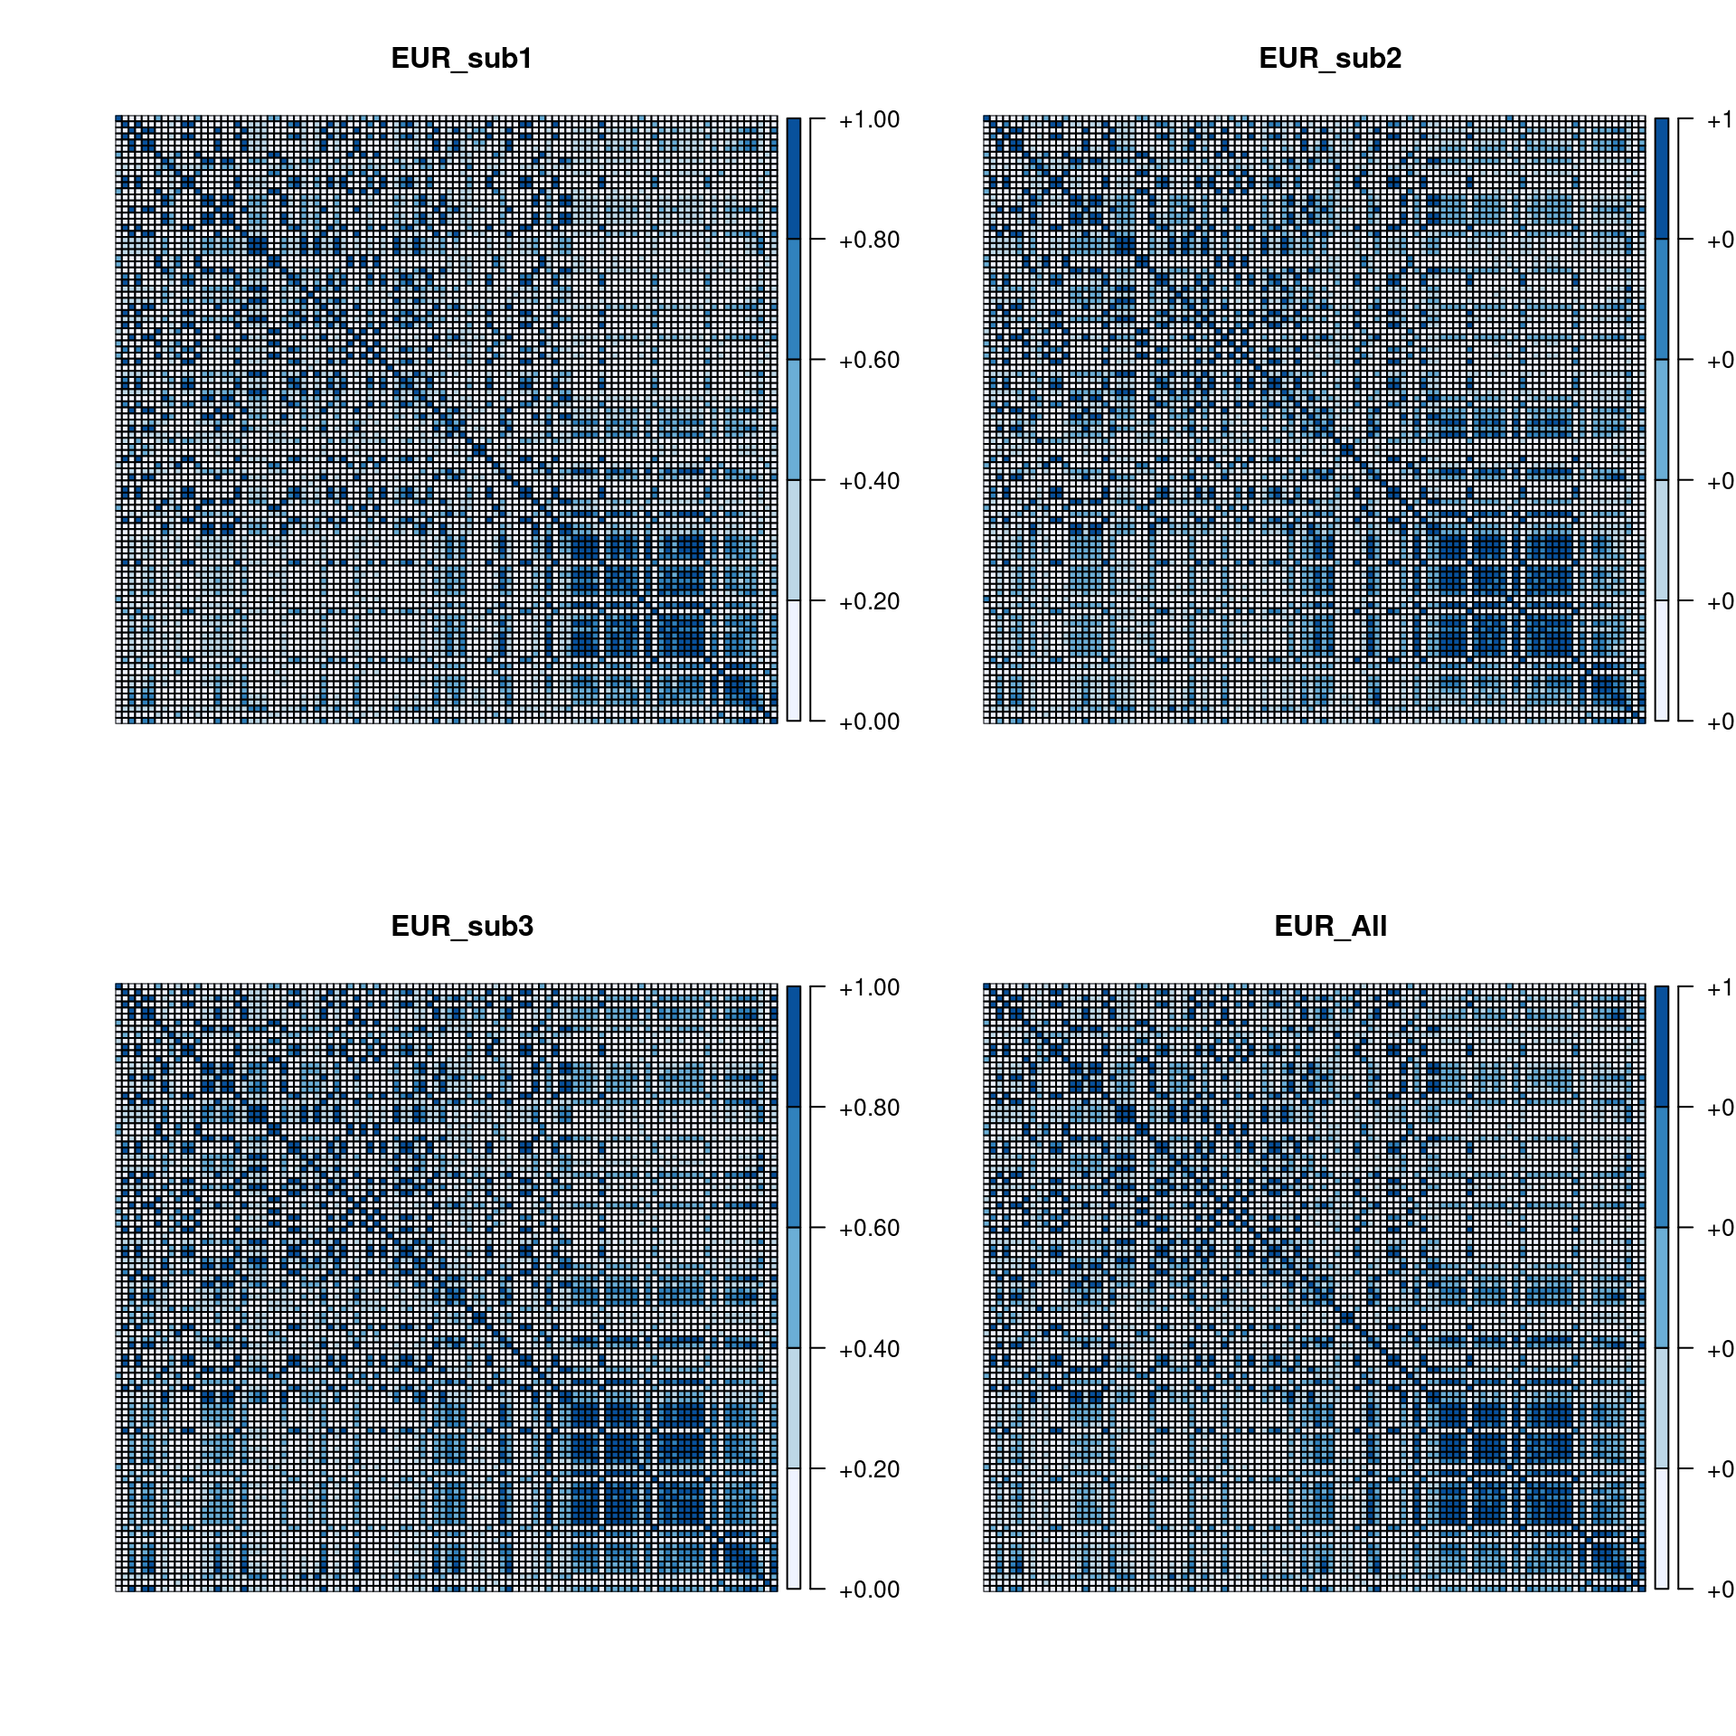
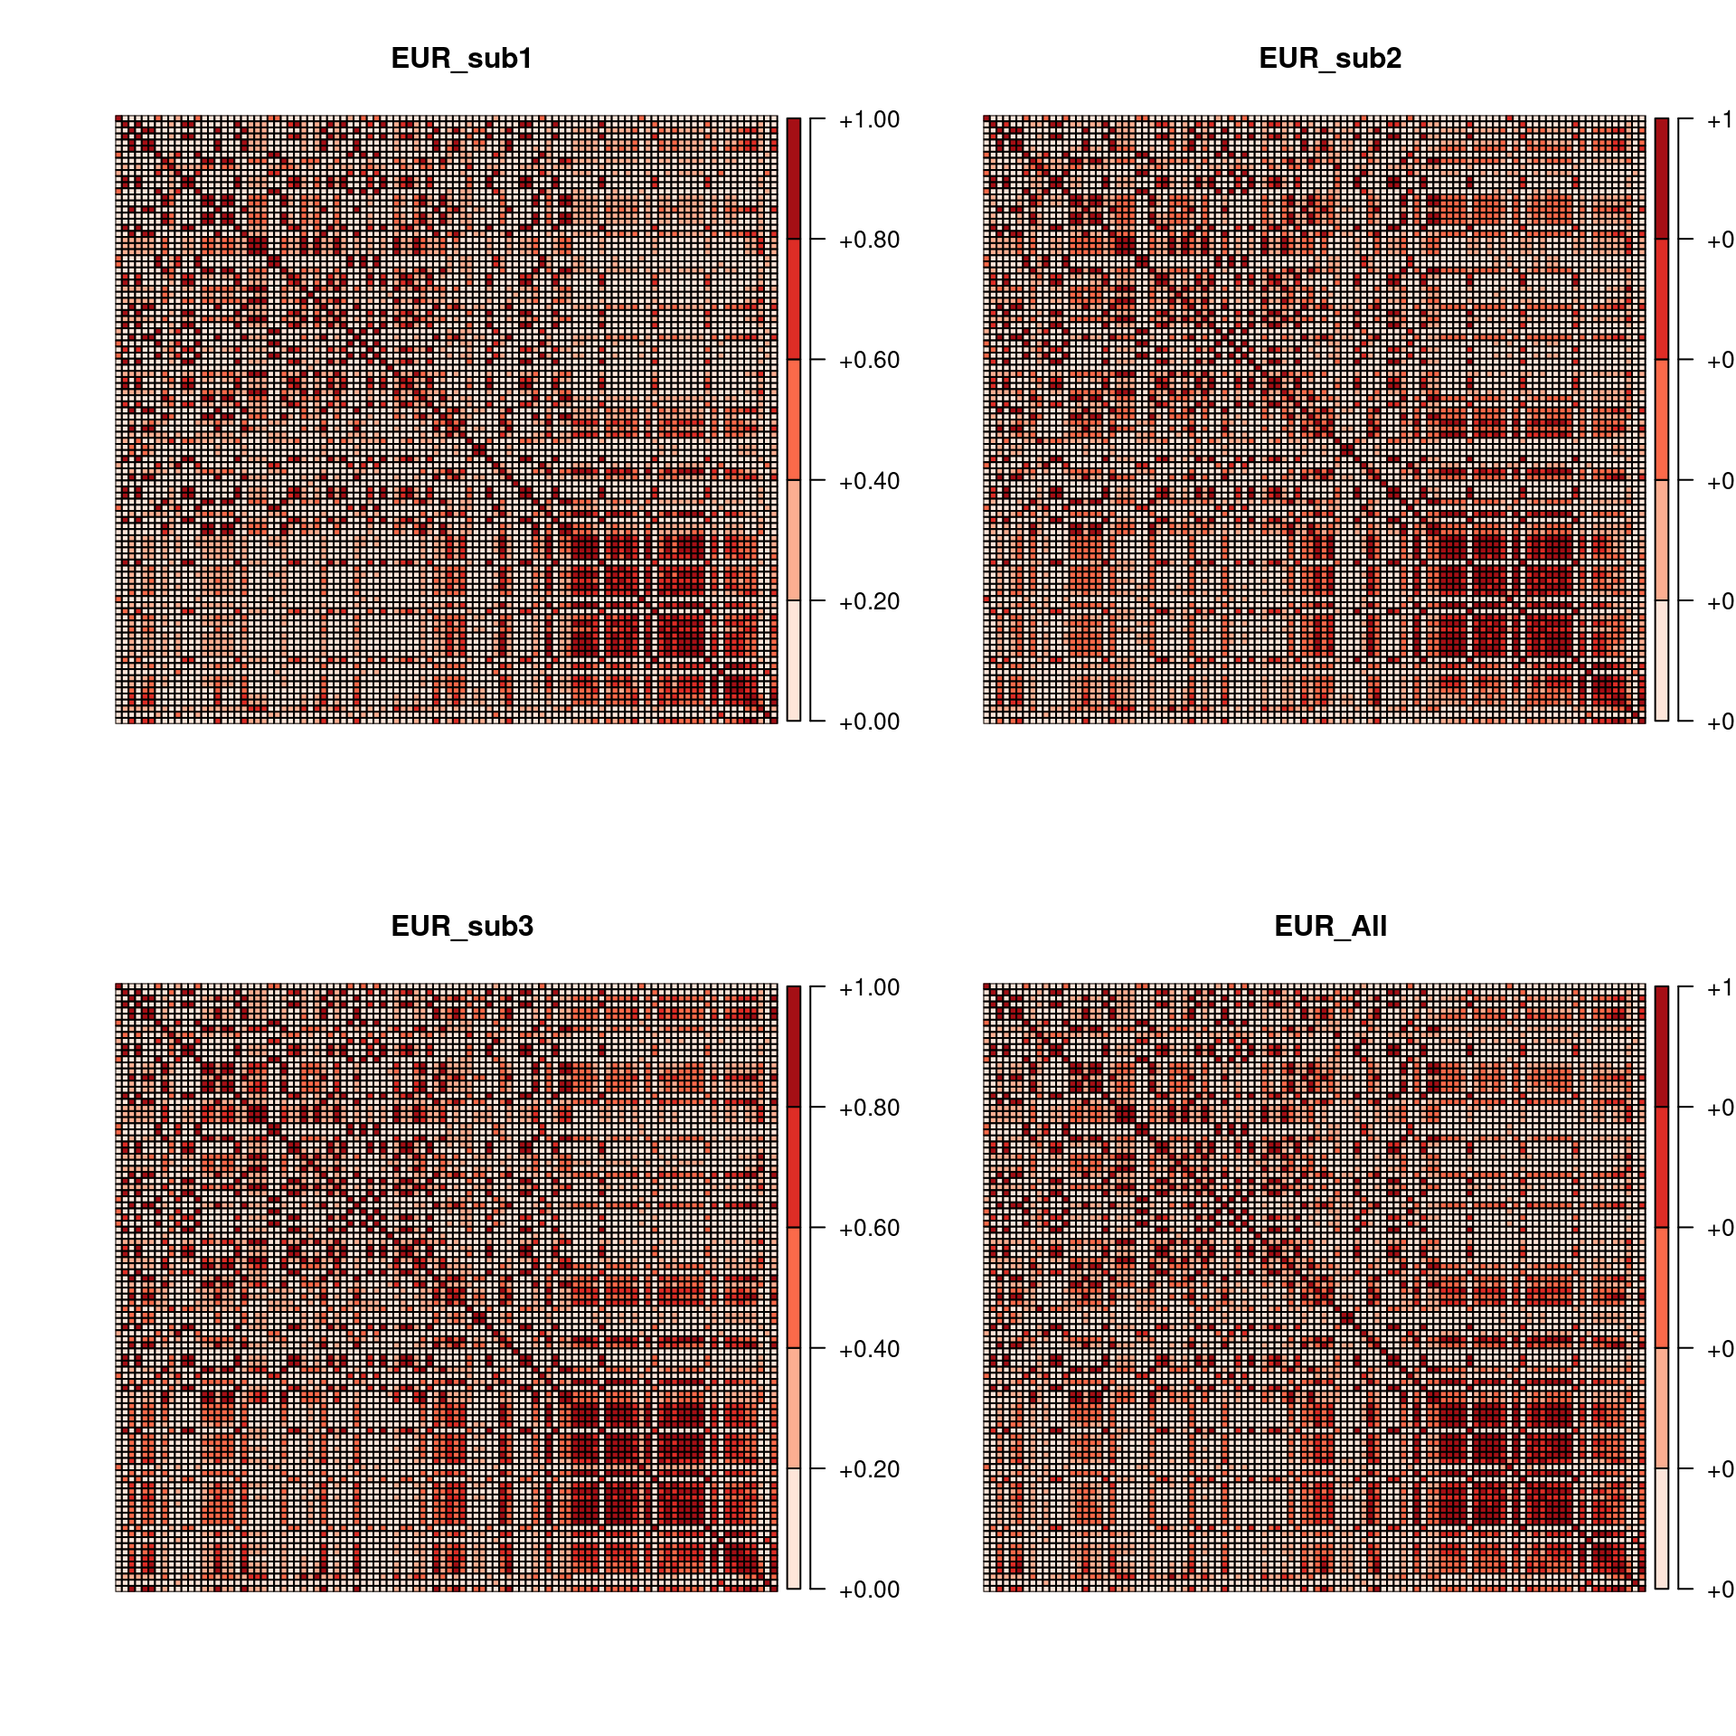
Build site.

diff --git a/docs/ld_analysis.html b/docs/ld_analysis.html
@@ -367,7 +367,7 @@ div.tocify {
 
 <p>
 <button type="button" class="btn btn-default btn-workflowr btn-workflowr-report" data-toggle="collapse" data-target="#workflowr-report">
-<span class="glyphicon glyphicon-list" aria-hidden="true"></span> workflowr <span class="glyphicon glyphicon-ok text-success" aria-hidden="true"></span>
+<span class="glyphicon glyphicon-list" aria-hidden="true"></span> workflowr <span class="glyphicon glyphicon-exclamation-sign text-danger" aria-hidden="true"></span>
 </button>
 </p>
 <div id="workflowr-report" class="collapse">
@@ -376,7 +376,7 @@ div.tocify {
 <a data-toggle="tab" href="#summary">Summary</a>
 </li>
 <li>
-<a data-toggle="tab" href="#checks"> Checks <span class="glyphicon glyphicon-ok text-success" aria-hidden="true"></span> </a>
+<a data-toggle="tab" href="#checks"> Checks <span class="glyphicon glyphicon-exclamation-sign text-danger" aria-hidden="true"></span> </a>
 </li>
 <li>
 <a data-toggle="tab" href="#versions">Past versions</a>
@@ -388,7 +388,7 @@ div.tocify {
 <strong>Last updated:</strong> 2021-07-05
 </p>
 <p>
-<strong>Checks:</strong> <span class="glyphicon glyphicon-ok text-success" aria-hidden="true"></span> 7 <span class="glyphicon glyphicon-exclamation-sign text-danger" aria-hidden="true"></span> 0
+<strong>Checks:</strong> <span class="glyphicon glyphicon-ok text-success" aria-hidden="true"></span> 6 <span class="glyphicon glyphicon-exclamation-sign text-danger" aria-hidden="true"></span> 1
 </p>
 <p>
 <strong>Knit directory:</strong> <code>LD_Analysis/</code> <span class="glyphicon glyphicon-question-sign" aria-hidden="true" title="This is the local directory in which the code in this file was executed."> </span>
@@ -404,12 +404,12 @@ This reproducible <a href="http://rmarkdown.rstudio.com">R Markdown</a> analysis
 <div class="panel panel-default">
 <div class="panel-heading">
 <p class="panel-title">
-<a data-toggle="collapse" data-parent="#workflowr-checks" href="#strongRMarkdownfilestronguptodate"> <span class="glyphicon glyphicon-ok text-success" aria-hidden="true"></span> <strong>R Markdown file:</strong> up-to-date </a>
+<a data-toggle="collapse" data-parent="#workflowr-checks" href="#strongRMarkdownfilestronguncommittedchanges"> <span class="glyphicon glyphicon-exclamation-sign text-danger" aria-hidden="true"></span> <strong>R Markdown file:</strong> uncommitted changes </a>
 </p>
 </div>
-<div id="strongRMarkdownfilestronguptodate" class="panel-collapse collapse">
+<div id="strongRMarkdownfilestronguncommittedchanges" class="panel-collapse collapse">
 <div class="panel-body">
-<p>Great! Since the R Markdown file has been committed to the Git repository, you know the exact version of the code that produced these results.</p>
+<p>The R Markdown file has unstaged changes. To know which version of the R Markdown file created these results, you’ll want to first commit it to the Git repo. If you’re still working on the analysis, you can ignore this warning. When you’re finished, you can run <code>wflow_publish</code> to commit the R Markdown file and build the HTML.</p>
 </div>
 </div>
 </div>
@@ -476,16 +476,16 @@ This reproducible <a href="http://rmarkdown.rstudio.com">R Markdown</a> analysis
 <div class="panel panel-default">
 <div class="panel-heading">
 <p class="panel-title">
-<a data-toggle="collapse" data-parent="#workflowr-checks" href="#strongRepositoryversionstrongahrefhttpsgithubcomsq96LDAnalysistree76ce23bb76c8ad3f0c9714af9aafd1548b6bf80btargetblank76ce23ba"> <span class="glyphicon glyphicon-ok text-success" aria-hidden="true"></span> <strong>Repository version:</strong> <a href="https://github.com/sq-96/LD_Analysis/tree/76ce23bb76c8ad3f0c9714af9aafd1548b6bf80b" target="_blank">76ce23b</a> </a>
+<a data-toggle="collapse" data-parent="#workflowr-checks" href="#strongRepositoryversionstrongahrefhttpsgithubcomsq96LDAnalysistreef0c6cb5abee4fe9b1333434abf3d9098e40b0eb8targetblankf0c6cb5a"> <span class="glyphicon glyphicon-ok text-success" aria-hidden="true"></span> <strong>Repository version:</strong> <a href="https://github.com/sq-96/LD_Analysis/tree/f0c6cb5abee4fe9b1333434abf3d9098e40b0eb8" target="_blank">f0c6cb5</a> </a>
 </p>
 </div>
[2 lines of base64/hex data omitted]
 <div class="panel-body">
 <p>
 Great! You are using Git for version control. Tracking code development and connecting the code version to the results is critical for reproducibility.
 </p>
 <p>
-The results in this page were generated with repository version <a href="https://github.com/sq-96/LD_Analysis/tree/76ce23bb76c8ad3f0c9714af9aafd1548b6bf80b" target="_blank">76ce23b</a>. See the <em>Past versions</em> tab to see a history of the changes made to the R Markdown and HTML files.
+The results in this page were generated with repository version <a href="https://github.com/sq-96/LD_Analysis/tree/f0c6cb5abee4fe9b1333434abf3d9098e40b0eb8" target="_blank">f0c6cb5</a>. See the <em>Past versions</em> tab to see a history of the changes made to the R Markdown and HTML files.
 </p>
 <p>
 Note that you need to be careful to ensure that all relevant files for the analysis have been committed to Git prior to generating the results (you can use <code>wflow_publish</code> or <code>wflow_git_commit</code>). workflowr only checks the R Markdown file, but you know if there are other scripts or data files that it depends on. Below is the status of the Git repository when the results were generated:
@@ -505,6 +505,7 @@ Untracked files:
 
 Unstaged changes:
     Deleted:    analysis/first-analysis.Rmd
+    Modified:   analysis/ld_analysis.Rmd
 
 </code></pre>
 <p>
@@ -543,6 +544,23 @@ Message
 </tr>
 </thead>
 <tbody>
+<tr>
+<td>
+html
+</td>
+<td>
+<a href="https://rawcdn.githack.com/sq-96/LD_Analysis/f0c6cb5abee4fe9b1333434abf3d9098e40b0eb8/docs/ld_analysis.html" target="_blank">f0c6cb5</a>
+</td>
+<td>
+sq-96
+</td>
+<td>
+2021-07-05
+</td>
+<td>
+Build site.
+</td>
+</tr>
 <tr>
 <td>
 html
@@ -725,10 +743,10 @@ Publish the initial files for myproject
 <pre class="r"><code>library(plot.matrix)
 library(RColorBrewer)
 par(mar=c(5, 4, 4, 2),mfrow=c(2,2))
-plot(as.matrix(ld1), axis.col=NULL, axis.row=NULL, xlab=&#39;&#39;, ylab=&#39;&#39;, main=&#39;EUR_sub1&#39;, col=brewer.pal(5,name = &quot;Blues&quot;),spacing.key=c(2,2,1))
-plot(as.matrix(ld2), axis.col=NULL, axis.row=NULL, xlab=&#39;&#39;, ylab=&#39;&#39;, main=&#39;EUR_sub2&#39;, col=brewer.pal(5,name = &quot;Blues&quot;),spacing.key=c(2,2,1))
-plot(as.matrix(ld3), axis.col=NULL, axis.row=NULL, xlab=&#39;&#39;, ylab=&#39;&#39;, main=&#39;EUR_sub3&#39;, col=brewer.pal(5,name = &quot;Blues&quot;),spacing.key=c(2,2,1))
-plot(as.matrix(ld4), axis.col=NULL, axis.row=NULL, xlab=&#39;&#39;, ylab=&#39;&#39;, main=&#39;EUR_All&#39;, col=brewer.pal(5,name = &quot;Blues&quot;),spacing.key=c(2,2,1))</code></pre>
+plot(as.matrix(ld1), axis.col=NULL, axis.row=NULL, xlab=&#39;&#39;, ylab=&#39;&#39;, main=&#39;EUR_sub1&#39;, col=brewer.pal(5,name = &quot;Reds&quot;),spacing.key=c(2,2,1))
+plot(as.matrix(ld2), axis.col=NULL, axis.row=NULL, xlab=&#39;&#39;, ylab=&#39;&#39;, main=&#39;EUR_sub2&#39;, col=brewer.pal(5,name = &quot;Reds&quot;),spacing.key=c(2,2,1))
+plot(as.matrix(ld3), axis.col=NULL, axis.row=NULL, xlab=&#39;&#39;, ylab=&#39;&#39;, main=&#39;EUR_sub3&#39;, col=brewer.pal(5,name = &quot;Reds&quot;),spacing.key=c(2,2,1))
+plot(as.matrix(ld4), axis.col=NULL, axis.row=NULL, xlab=&#39;&#39;, ylab=&#39;&#39;, main=&#39;EUR_All&#39;, col=brewer.pal(5,name = &quot;Reds&quot;),spacing.key=c(2,2,1))</code></pre>
 <p><img src="figure/ld_analysis.Rmd/unnamed-chunk-5-1.png" width="960" style="display: block; margin: auto;" /></p>
 <p>
 <button type="button" class="btn btn-default btn-xs btn-workflowr btn-workflowr-fig" data-toggle="collapse" data-target="#fig-unnamed-chunk-5-1">

diff --git a/docs/license.html b/docs/license.html
@@ -336,16 +336,16 @@ This reproducible <a href="http://rmarkdown.rstudio.com">R Markdown</a> analysis
 <div class="panel panel-default">
 <div class="panel-heading">
 <p class="panel-title">
-<a data-toggle="collapse" data-parent="#workflowr-checks" href="#strongRepositoryversionstrongahrefhttpsgithubcomsq96LDAnalysistree76ce23bb76c8ad3f0c9714af9aafd1548b6bf80btargetblank76ce23ba"> <span class="glyphicon glyphicon-ok text-success" aria-hidden="true"></span> <strong>Repository version:</strong> <a href="https://github.com/sq-96/LD_Analysis/tree/76ce23bb76c8ad3f0c9714af9aafd1548b6bf80b" target="_blank">76ce23b</a> </a>
+<a data-toggle="collapse" data-parent="#workflowr-checks" href="#strongRepositoryversionstrongahrefhttpsgithubcomsq96LDAnalysistreef0c6cb5abee4fe9b1333434abf3d9098e40b0eb8targetblankf0c6cb5a"> <span class="glyphicon glyphicon-ok text-success" aria-hidden="true"></span> <strong>Repository version:</strong> <a href="https://github.com/sq-96/LD_Analysis/tree/f0c6cb5abee4fe9b1333434abf3d9098e40b0eb8" target="_blank">f0c6cb5</a> </a>
 </p>
 </div>
[2 lines of base64/hex data omitted]
 <div class="panel-body">
 <p>
 Great! You are using Git for version control. Tracking code development and connecting the code version to the results is critical for reproducibility.
 </p>
 <p>
-The results in this page were generated with repository version <a href="https://github.com/sq-96/LD_Analysis/tree/76ce23bb76c8ad3f0c9714af9aafd1548b6bf80b" target="_blank">76ce23b</a>. See the <em>Past versions</em> tab to see a history of the changes made to the R Markdown and HTML files.
+The results in this page were generated with repository version <a href="https://github.com/sq-96/LD_Analysis/tree/f0c6cb5abee4fe9b1333434abf3d9098e40b0eb8" target="_blank">f0c6cb5</a>. See the <em>Past versions</em> tab to see a history of the changes made to the R Markdown and HTML files.
 </p>
 <p>
 Note that you need to be careful to ensure that all relevant files for the analysis have been committed to Git prior to generating the results (you can use <code>wflow_publish</code> or <code>wflow_git_commit</code>). workflowr only checks the R Markdown file, but you know if there are other scripts or data files that it depends on. Below is the status of the Git repository when the results were generated:
@@ -365,6 +365,7 @@ Untracked files:
 
 Unstaged changes:
     Deleted:    analysis/first-analysis.Rmd
+    Modified:   analysis/ld_analysis.Rmd
 
 </code></pre>
 <p>
@@ -403,6 +404,23 @@ Message
 </tr>
 </thead>
 <tbody>
+<tr>
+<td>
+html
+</td>
+<td>
+<a href="https://rawcdn.githack.com/sq-96/LD_Analysis/f0c6cb5abee4fe9b1333434abf3d9098e40b0eb8/docs/license.html" target="_blank">f0c6cb5</a>
+</td>
+<td>
+sq-96
+</td>
+<td>
+2021-07-05
+</td>
+<td>
+Build site.
+</td>
+</tr>
 <tr>
 <td>
 html

diff --git a/docs/about.html b/docs/about.html
@@ -336,16 +336,16 @@ This reproducible <a href="http://rmarkdown.rstudio.com">R Markdown</a> analysis
 <div class="panel panel-default">
 <div class="panel-heading">
 <p class="panel-title">
-<a data-toggle="collapse" data-parent="#workflowr-checks" href="#strongRepositoryversionstrongahrefhttpsgithubcomsq96LDAnalysistree76ce23bb76c8ad3f0c9714af9aafd1548b6bf80btargetblank76ce23ba"> <span class="glyphicon glyphicon-ok text-success" aria-hidden="true"></span> <strong>Repository version:</strong> <a href="https://github.com/sq-96/LD_Analysis/tree/76ce23bb76c8ad3f0c9714af9aafd1548b6bf80b" target="_blank">76ce23b</a> </a>
+<a data-toggle="collapse" data-parent="#workflowr-checks" href="#strongRepositoryversionstrongahrefhttpsgithubcomsq96LDAnalysistreef0c6cb5abee4fe9b1333434abf3d9098e40b0eb8targetblankf0c6cb5a"> <span class="glyphicon glyphicon-ok text-success" aria-hidden="true"></span> <strong>Repository version:</strong> <a href="https://github.com/sq-96/LD_Analysis/tree/f0c6cb5abee4fe9b1333434abf3d9098e40b0eb8" target="_blank">f0c6cb5</a> </a>
 </p>
 </div>
[2 lines of base64/hex data omitted]
 <div class="panel-body">
 <p>
 Great! You are using Git for version control. Tracking code development and connecting the code version to the results is critical for reproducibility.
 </p>
 <p>
-The results in this page were generated with repository version <a href="https://github.com/sq-96/LD_Analysis/tree/76ce23bb76c8ad3f0c9714af9aafd1548b6bf80b" target="_blank">76ce23b</a>. See the <em>Past versions</em> tab to see a history of the changes made to the R Markdown and HTML files.
+The results in this page were generated with repository version <a href="https://github.com/sq-96/LD_Analysis/tree/f0c6cb5abee4fe9b1333434abf3d9098e40b0eb8" target="_blank">f0c6cb5</a>. See the <em>Past versions</em> tab to see a history of the changes made to the R Markdown and HTML files.
 </p>
 <p>
 Note that you need to be careful to ensure that all relevant files for the analysis have been committed to Git prior to generating the results (you can use <code>wflow_publish</code> or <code>wflow_git_commit</code>). workflowr only checks the R Markdown file, but you know if there are other scripts or data files that it depends on. Below is the status of the Git repository when the results were generated:
@@ -365,6 +365,7 @@ Untracked files:
 
 Unstaged changes:
     Deleted:    analysis/first-analysis.Rmd
+    Modified:   analysis/ld_analysis.Rmd
 
 </code></pre>
 <p>
@@ -403,6 +404,23 @@ Message
 </tr>
 </thead>
 <tbody>
+<tr>
+<td>
+html
+</td>
+<td>
+<a href="https://rawcdn.githack.com/sq-96/LD_Analysis/f0c6cb5abee4fe9b1333434abf3d9098e40b0eb8/docs/about.html" target="_blank">f0c6cb5</a>
+</td>
+<td>
+sq-96
+</td>
+<td>
+2021-07-05
+</td>
+<td>
+Build site.
+</td>
+</tr>
 <tr>
 <td>
 html

diff --git a/docs/index.html b/docs/index.html
@@ -336,16 +336,16 @@ This reproducible <a href="http://rmarkdown.rstudio.com">R Markdown</a> analysis
 <div class="panel panel-default">
 <div class="panel-heading">
 <p class="panel-title">
-<a data-toggle="collapse" data-parent="#workflowr-checks" href="#strongRepositoryversionstrongahrefhttpsgithubcomsq96LDAnalysistree76ce23bb76c8ad3f0c9714af9aafd1548b6bf80btargetblank76ce23ba"> <span class="glyphicon glyphicon-ok text-success" aria-hidden="true"></span> <strong>Repository version:</strong> <a href="https://github.com/sq-96/LD_Analysis/tree/76ce23bb76c8ad3f0c9714af9aafd1548b6bf80b" target="_blank">76ce23b</a> </a>
+<a data-toggle="collapse" data-parent="#workflowr-checks" href="#strongRepositoryversionstrongahrefhttpsgithubcomsq96LDAnalysistreef0c6cb5abee4fe9b1333434abf3d9098e40b0eb8targetblankf0c6cb5a"> <span class="glyphicon glyphicon-ok text-success" aria-hidden="true"></span> <strong>Repository version:</strong> <a href="https://github.com/sq-96/LD_Analysis/tree/f0c6cb5abee4fe9b1333434abf3d9098e40b0eb8" target="_blank">f0c6cb5</a> </a>
 </p>
 </div>
[2 lines of base64/hex data omitted]
 <div class="panel-body">
 <p>
 Great! You are using Git for version control. Tracking code development and connecting the code version to the results is critical for reproducibility.
 </p>
 <p>
-The results in this page were generated with repository version <a href="https://github.com/sq-96/LD_Analysis/tree/76ce23bb76c8ad3f0c9714af9aafd1548b6bf80b" target="_blank">76ce23b</a>. See the <em>Past versions</em> tab to see a history of the changes made to the R Markdown and HTML files.
+The results in this page were generated with repository version <a href="https://github.com/sq-96/LD_Analysis/tree/f0c6cb5abee4fe9b1333434abf3d9098e40b0eb8" target="_blank">f0c6cb5</a>. See the <em>Past versions</em> tab to see a history of the changes made to the R Markdown and HTML files.
 </p>
 <p>
 Note that you need to be careful to ensure that all relevant files for the analysis have been committed to Git prior to generating the results (you can use <code>wflow_publish</code> or <code>wflow_git_commit</code>). workflowr only checks the R Markdown file, but you know if there are other scripts or data files that it depends on. Below is the status of the Git repository when the results were generated:
@@ -365,6 +365,7 @@ Untracked files:
 
 Unstaged changes:
     Deleted:    analysis/first-analysis.Rmd
+    Modified:   analysis/ld_analysis.Rmd
 
 </code></pre>
 <p>
@@ -403,6 +404,23 @@ Message
 </tr>
 </thead>
 <tbody>
+<tr>
+<td>
+html
+</td>
+<td>
+<a href="https://rawcdn.githack.com/sq-96/LD_Analysis/f0c6cb5abee4fe9b1333434abf3d9098e40b0eb8/docs/index.html" target="_blank">f0c6cb5</a>
+</td>
+<td>
+sq-96
+</td>
+<td>
+2021-07-05
+</td>
+<td>
+Build site.
+</td>
+</tr>
 <tr>
 <td>
 html
